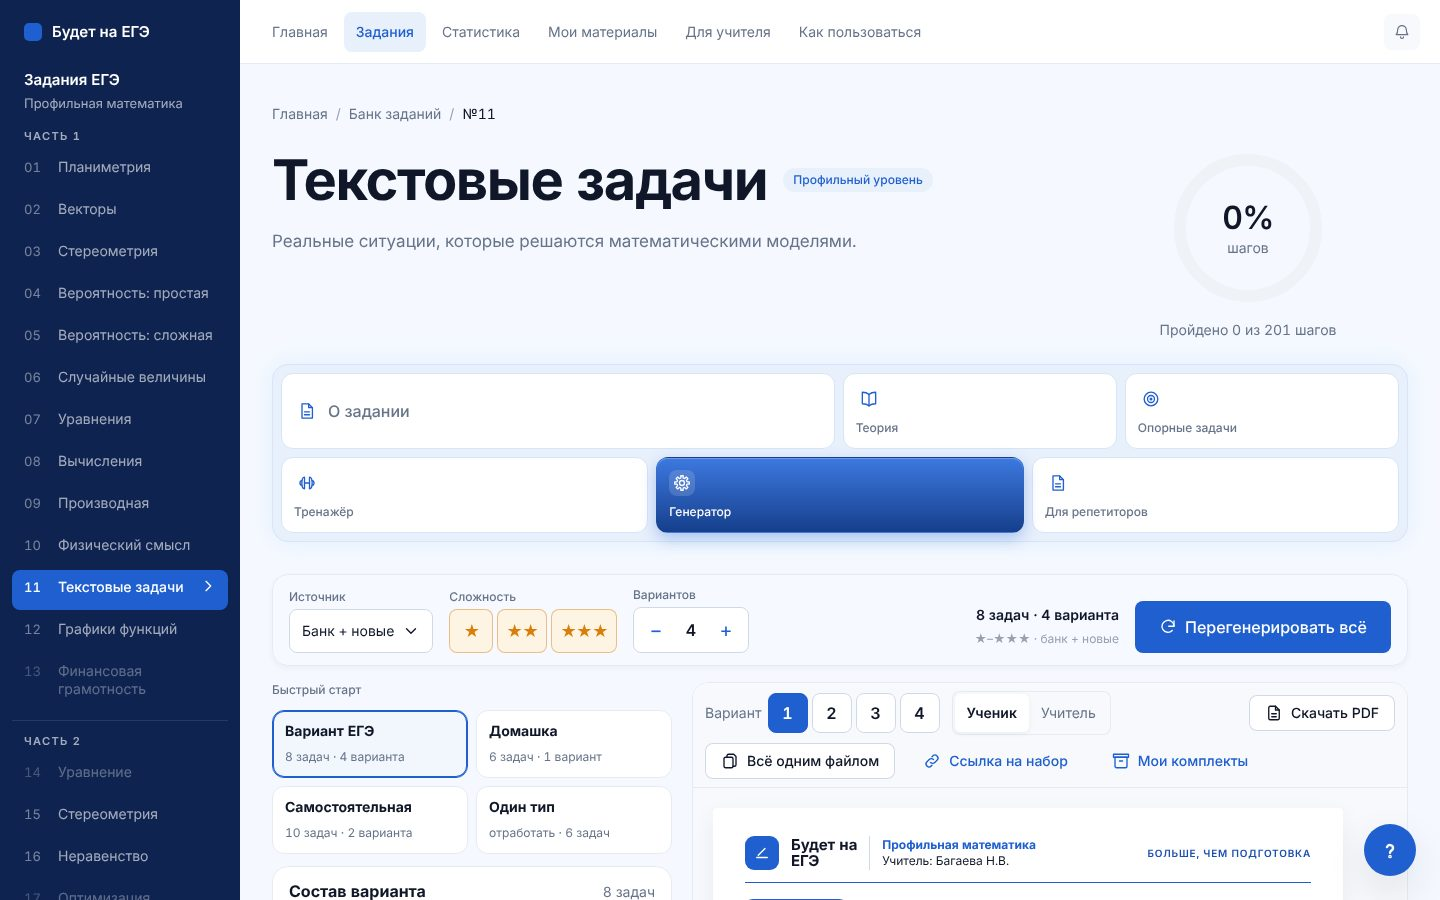
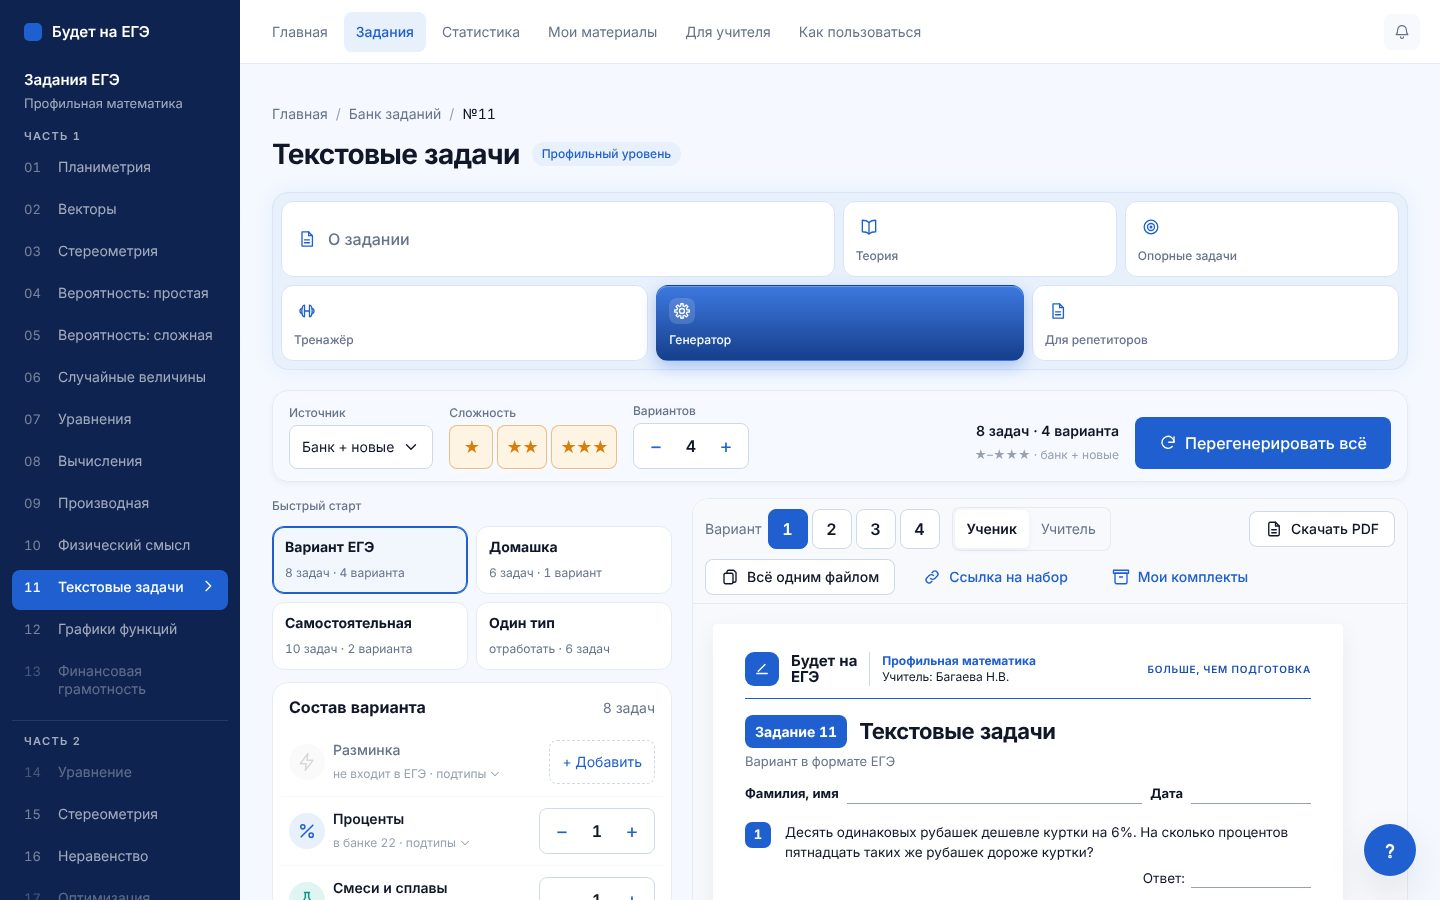
Генератор: компактная шапка раздела, на телефоне — к листу после генерации
На вкладке с общим генератором шапка раздела — одна строка: заголовок
и уровень, без вводного текста и кольца прогресса. Генератор начинается
на 184 px выше на 1440×900 и на 292 px выше на телефоне; фильтры и
кнопка «Сгенерировать» видны на первом экране. Остальные вкладки не
меняются. Правило — в docs/razdel-pravila.md.

Телефон: после первой генерации экран доезжает до листа — прокрутка
идёт, когда лист уже на странице, а не заглушка «Собираем…».

Скриншоты docs/generator/stage3 пересняты.

Claude-Session: https://claude.ai/code/session_01NsKWZTRfLBHKpLNKgzsvTi

diff --git a/app/src/components/generator/Generator.tsx b/app/src/components/generator/Generator.tsx
@@ -198,15 +198,19 @@ export function Generator({ config, engine, icons }: GeneratorProps) {
           if (no !== buildNo.current) return;
           setSheet(s);
           setBusy(false);
-          if (scrollAfterBuild.current) {
-            scrollAfterBuild.current = false;
-            pvRef.current?.scrollIntoView({ behavior: 'smooth', block: 'start' });
-          }
         })
         .catch(() => setBusy(false));
     }, 60);
     return () => window.clearTimeout(t);
   }, [generated, st, engine]);
+
+  /* Телефон, первая генерация: к листу — когда он уже на странице,
+     иначе прокрутка упирается в конец короткой заглушки «Собираем…». */
+  useEffect(() => {
+    if (sheet === null || !scrollAfterBuild.current) return;
+    scrollAfterBuild.current = false;
+    pvRef.current?.scrollIntoView({ behavior: 'smooth', block: 'start' });
+  }, [sheet]);
 
   const ready = generated && st.seed !== null && st.plan.length > 0;
   const hrefs = useMemo(

diff --git a/app/src/components/generator/generator.css b/app/src/components/generator/generator.css
@@ -11,6 +11,29 @@
   gap: var(--space-4);
   margin-top: var(--space-5);
 }
+/* Вкладка генератора — рабочий экран учителя: шапка раздела в одну
+   строку (заголовок и уровень), без вводного текста и кольца прогресса
+   ученика. Так фильтры и лист видны сразу, а не после экрана шапки.
+   Остальные вкладки раздела шапку не меняют. */
+.app-main:has(.gen) .section-head {
+  grid-template-columns: minmax(0, 1fr);
+  margin: var(--space-3) 0 var(--space-5);
+}
+.app-main:has(.gen) .section-head__title {
+  gap: var(--space-3);
+  margin-bottom: 0;
+}
+.app-main:has(.gen) .section-head .t-h1 {
+  font-size: var(--fs-h3);
+  line-height: var(--lh-h3);
+}
+.app-main:has(.gen) .section-head__lead,
+.app-main:has(.gen) .section-head__media {
+  display: none;
+}
+.app-main:has(.gen) .section-panel {
+  margin-top: 0;
+}
 .gen-ico {
   width: 18px;
   height: 18px;

diff --git a/docs/generator/03-implementation.md b/docs/generator/03-implementation.md
@@ -12,6 +12,8 @@
 - **Правка движка №11** (`app/src/lib/zadanie11/sheet11.ts`, схема `ps=2` в адресе). Задача привязана к ключу позиции «подтип + номер внутри подтипа» (`PR-04_0`), а не к номеру на листе; замены — по тому же ключу. Генераторы задач, банк и ответы не менялись. Старые адреса и маршруты уроков собираются по прежней схеме: проверено на 144 адресах, листы совпадают побайтно.
 - **Старая разметка удалена**: прежний `Generator11.tsx` (462 строки) заменён обёрткой на 35 строк, тексты `GENERATOR_11` удалены.
 - **Лист учителя при печати** — без плашек «банк» / «новая» у задач; источник — одной строкой у каждого варианта в разделе «Ответы»: «Задачи 2, 3, 5 — открытый банк ФИПИ, остальные — авторские». Маршруты уроков из «Для репетиторов» не тронуты.
+- **Компактная шапка раздела** на вкладке «Генератор»: заголовок и уровень в одну строку, без вводного текста и кольца прогресса ученика. На 1440×900 генератор начинается на 184 px выше (390 px от верха вместо 574), на телефоне 390×844 — на 292 px выше, фильтры и кнопка «Сгенерировать» видны на первом экране. Остальные вкладки не изменились. Правило записано в `docs/razdel-pravila.md`.
+- **Телефон, первая генерация**: экран доезжает до листа. Раньше прокрутка запускалась до того, как лист появлялся на странице, и останавливалась на полпути.
 - **Тур онбординга** указывает на новые блоки генератора.
 - **Автотест** `pnpm test:generator` (697 проверок) и шаг в CI.
 
@@ -69,7 +71,6 @@
 ## Что осталось
 
 - **Ограничения новой схемы.** Банк у подтипа маленький (1–13 задач), а задачи не повторяются, поэтому полной независимости нет. Если в листе две и больше задачи одного подтипа, смена числа вариантов может заменить вторую и следующие. Когда банк подтипа почти исчерпан, «Убрать» или «+» у того же подтипа может сменить задачу, взятую с конца банка. Пресеты такого не дают: в них подтипы не повторяются, автотест это проверяет.
-- **Компактная шапка раздела** на вкладке «Генератор»: сейчас до генератора на 1440×900 около 570 px шапки, лист виден лишь верхом. Это правка общей разметки раздела, отдельным шагом.
 - **«Дополнительно»** (рамки с теорией, разобранные примеры, QR-код, вид работы и дата в шапке) — вместе с PDF, пункт 3.4: им нужна поддержка в листе печати.
 - **Остальные разделы** (№1, №2, №4–10, №12) — по одному шагу на раздел. Стили `z11-gen` / `z11-a4` в `zadanie11.css` пока остаются: на них держится генератор №1, они уйдут вместе с ним.
 - **Снимки исследования**: снимки чужих сайтов убраны из репозитория по правилу `check-repo-files.mjs` и лежат в приватной галерее (ссылка в `01-research.md`).

diff --git a/docs/razdel-pravila.md b/docs/razdel-pravila.md
@@ -49,6 +49,14 @@
   всю ширину поля), тень — под нижней из прилипших панелей. Нижняя
   навигация закреплена снизу и не перекрывается.
 
+**Вкладка «Генератор».** Если на вкладке стоит общий генератор
+(`components/generator/`), шапка раздела над меню сама сжимается в
+одну строку: заголовок и уровень, без вводного текста и кольца
+прогресса. Так фильтры и лист видны на первом экране. Делается это
+правилом `.app-main:has(.gen)` в `generator.css`; раздел ничего для
+этого не пишет. Плитки меню и липкая панель остаются как на других
+вкладках.
+
 ## 2. Текст с формулами
 
 - Формула в строке контента — только `$…$`, выделение — `**…**`.
